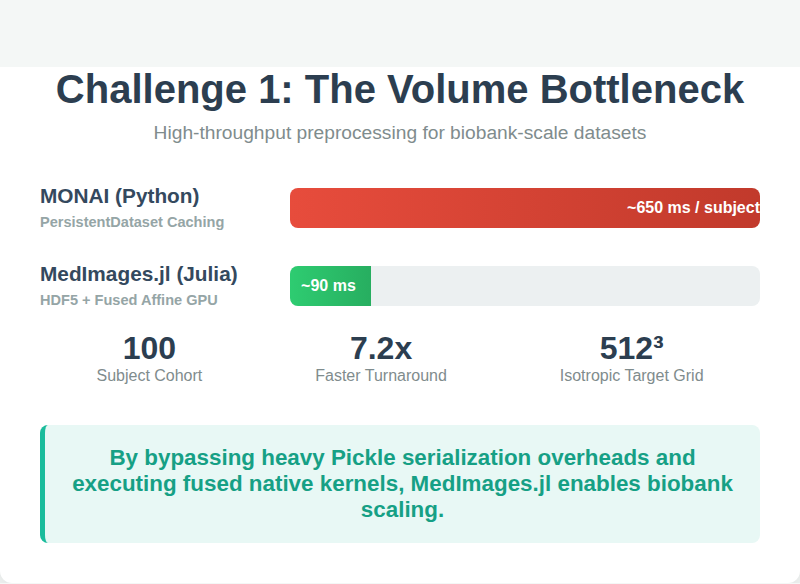
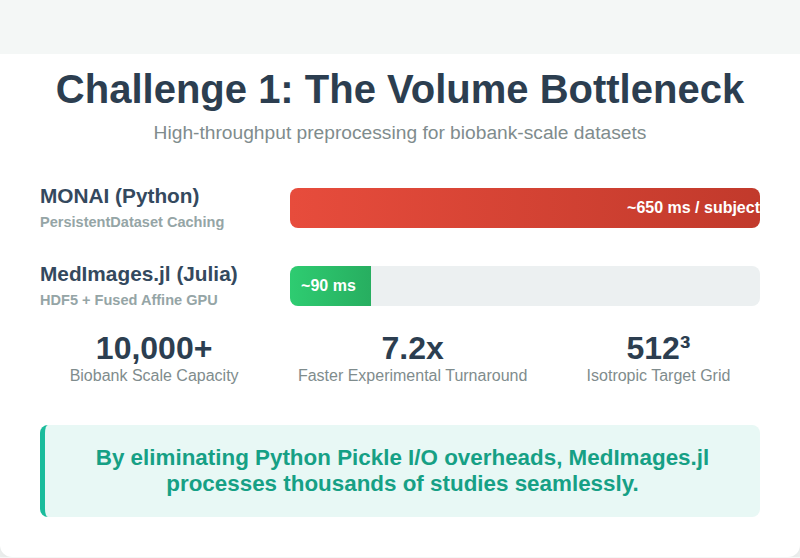
docs: update volume challenge infographics for biobank scale

diff --git a/elsarticle/figures_new/challenge_1.html b/elsarticle/figures_new/challenge_1.html
@@ -47,12 +47,12 @@
 
         <div class="metrics">
             <div class="metric-box">
-                <div class="metric-val">100</div>
-                <div class="metric-label">Subject Cohort</div>
+                <div class="metric-val">10,000+</div>
+                <div class="metric-label">Biobank Scale Capacity</div>
             </div>
             <div class="metric-box">
                 <div class="metric-val">7.2x</div>
-                <div class="metric-label">Faster Turnaround</div>
+                <div class="metric-label">Faster Experimental Turnaround</div>
             </div>
             <div class="metric-box">
                 <div class="metric-val">512³</div>
@@ -61,7 +61,7 @@
         </div>
 
         <div class="stats">
-            <p>By bypassing heavy Pickle serialization overheads and executing fused native kernels, MedImages.jl enables biobank scaling.</p>
+            <p>By eliminating Python Pickle I/O overheads, MedImages.jl processes thousands of studies seamlessly.</p>
         </div>
     </div>
 </body>

diff --git a/elsarticle/infographic_logic.md b/elsarticle/infographic_logic.md
@@ -4,13 +4,13 @@ This document provides a precise, step-by-step blueprint for visualizing the fou
 
 ---
 
-## Challenge 1: The Volume Bottleneck (Scaling to 100 Cases)
+## Challenge 1: The Volume Bottleneck (Biobank-Scale Processing)
 
 ### Core Points
-1. High-throughput preprocessing of biobank-scale multimodal datasets (e.g., PET and CT) is a major bottleneck.
-2. Traditional caching (e.g., MONAI PersistentDataset) relies on heavy Python Pickle/Pt serialization.
-3. MedImages.jl uses HDF5 and Fused Affine GPU kernels.
-4. Result: 7.2× faster turnaround time (~90 ms vs ~650 ms per subject).
+1. High-throughput preprocessing of biobank-scale multimodal datasets (thousands of studies) is a major bottleneck. Our 100-subject experiment was merely a benchmark to quantify the speedup relative to existing frameworks.
+2. Traditional caching (e.g., MONAI PersistentDataset) relies on heavy Python Pickle/Pt serialization, bottlenecking large-scale pipelines.
+3. MedImages.jl uses HDF5 and Fused Affine GPU kernels, designed specifically to scale natively to thousands of examinations without cache penalty.
+4. Result: A proven 7.2× faster turnaround time (~90 ms vs ~650 ms per subject), enabling true biobank-scale data ingestion in minutes rather than days.
 
 ### Pictographic Representation & Layout
 *   **Bounding Box (Left - Traditional Pipeline):**
@@ -21,9 +21,9 @@ This document provides a precise, step-by-step blueprint for visualizing the fou
     *   *Text:* "MedImages.jl HDF5 + Native GPU (~90 ms)"
 *   **Connections (Lines & Arrows):**
     *   Both boxes output to a central target node below them.
-    *   The line from the Left box should be dashed, red, and thick (representing friction).
-    *   The line from the Right box should be solid, green, and smooth (representing speed).
-    *   Both lines converge on a large, central "Results Node" shaped like a biobank vault, with bold text reading "**7.2× Total Turnaround Speedup**".
+    *   The line from the Left box should be dashed, red, and thick (representing I/O friction).
+    *   The line from the Right box should be solid, green, and smooth (representing massive I/O throughput).
+    *   Both lines converge on a large, central "Results Node" shaped like a massive biobank vault containing thousands of datasets, with bold text reading "**7.2× Speedup, Unlocking Thousands of Studies**".
 
 ---
 
